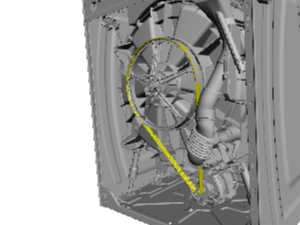
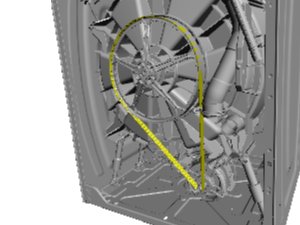
added arrows and swapped 2 and 4

diff --git a/src/lib/work-instructions.tsx b/src/lib/work-instructions.tsx
@@ -30,19 +30,89 @@ export interface InstructionStep {
 
 
 const sceneViewStateId1 = "723234df-4b68-4600-9625-81b4db434dbc";
-const sceneViewStateId2 = "38a18afb-6f22-4264-82f5-5bd11ab53e6d";
+const sceneViewStateId2 = "59f295dc-8e1f-4ddf-8718-cfaefa32facf";
 const sceneViewStateId3 = "a74c042b-3670-491d-97cd-06c6b2c1e890";
-const sceneViewStateId4 = "59f295dc-8e1f-4ddf-8718-cfaefa32facf";
+const sceneViewStateId4 = "38a18afb-6f22-4264-82f5-5bd11ab53e6d";
 
+const back_screws_left_x = 350;
+const  back_screws_right_x = -305;
+const back_screws_z = -610;
+const rotation_left = { order: "xyz", x: 3, y: 4, z: 2 } as Euler.Euler;
+const rotation_right= { order: "xyz", x: 3, y: -10, z: 2 } as Euler.Euler;
 
 export const InstructionSteps: Record<string, InstructionStep> = {
   "step-1": {
     arrows: [
+      //left
       {
-        position: { x: -74.71805572509766,
-          y: 289.2084045410156,
-          z: -513.8933715820312 },
-        rotation: { order: "xyz", x: 0, y: 0, z: 0 },
+        position: { x: back_screws_left_x, y: 760, z: back_screws_z },
+        rotation: rotation_left,
+        type: "up",
+      },
+      {
+        position: { x: back_screws_left_x, y: 690, z: back_screws_z },
+        rotation: rotation_left,
+        type: "up",
+      },
+      {
+        position: { x: back_screws_left_x, y: 590, z: back_screws_z },
+        rotation: rotation_left,
+        type: "up",
+      },
+      {
+        position: { x: back_screws_left_x, y: 425, z: back_screws_z },
+        rotation: rotation_left,
+        type: "up",
+      },      
+      {
+        position: { x: back_screws_left_x, y: 300, z: back_screws_z },
+        rotation: rotation_left,
+        type: "up",
+      },   
+      {
+        position: { x: back_screws_left_x, y: 210, z: back_screws_z },
+        rotation: rotation_left,
+        type: "up",
+      },     
+       {
+        position: { x: back_screws_left_x, y: 5, z: back_screws_z },
+        rotation: rotation_left,
+        type: "up",
+      },
+      //right
+      {
+        position: { x: back_screws_right_x, y: 760, z: back_screws_z },
+        rotation: rotation_right,
+        type: "up",
+      },
+      {
+        position: { x: back_screws_right_x, y: 690, z: back_screws_z },
+        rotation: rotation_right,
+        type: "up",
+      },
+      {
+        position: { x: back_screws_right_x, y: 590, z: back_screws_z },
+        rotation: rotation_right,
+        type: "up",
+      },
+      {
+        position: { x: back_screws_right_x, y: 425, z: back_screws_z },
+        rotation: rotation_right,
+        type: "up",
+      },      
+      {
+        position: { x: back_screws_right_x, y: 300, z: back_screws_z },
+        rotation: rotation_right,
+        type: "up",
+      },   
+      {
+        position: { x: back_screws_right_x, y: 210, z: back_screws_z },
+        rotation: rotation_right,
+        type: "up",
+      },     
+       {
+        position: { x: back_screws_right_x, y: 5, z: back_screws_z },
+        rotation: rotation_right,
         type: "up",
       },
     ],
@@ -75,7 +145,7 @@ export const InstructionSteps: Record<string, InstructionStep> = {
     sceneItemsVisible: [],
     sceneViewStateId: sceneViewStateId1,
     step: 1,
-    title: "Removed Rear Cover",
+    title: "Remove Rear Cover",
   },
   "step-2": {
     arrows: [
@@ -120,7 +190,7 @@ export const InstructionSteps: Record<string, InstructionStep> = {
     arrows: [
       {
         position: { x: -87.63182067871094,
-          y: 268.0404052734375,
+          y: 290,
           z: -524.8290405273438 },
         rotation: { order: "xyz", x: 0, y: 0, z: 0 },
         type: "down",

diff --git a/src/components/Instructions.tsx b/src/components/Instructions.tsx
@@ -27,7 +27,7 @@ export function Instructions({
       <>
         <ContentHeader onClose={onClose} title="Belt Replacement" />
         <Typography sx={{ mb: 6 }}>
-          At this station, the assembly technician replaces the belt.
+          For this repair, the technician checks and replaces the belt.
         </Typography>
         <Box sx={{ display: "flex", mb: 2 }}>
           <MapOutlined sx={{ mr: 1 }} />
@@ -39,7 +39,7 @@ export function Instructions({
         </Box>
         <Box sx={{ display: "flex", justifyContent: "center" }}>
           <Button onClick={() => onBeginAssembly()} variant="contained">
-            Begin Assembly
+            Begin Disassembly
           </Button>
         </Box>
       </>
